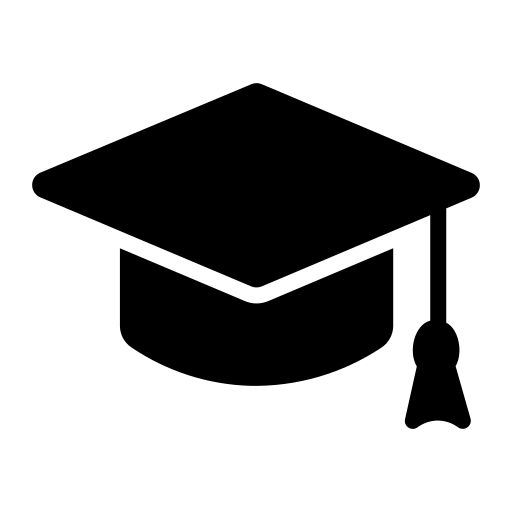
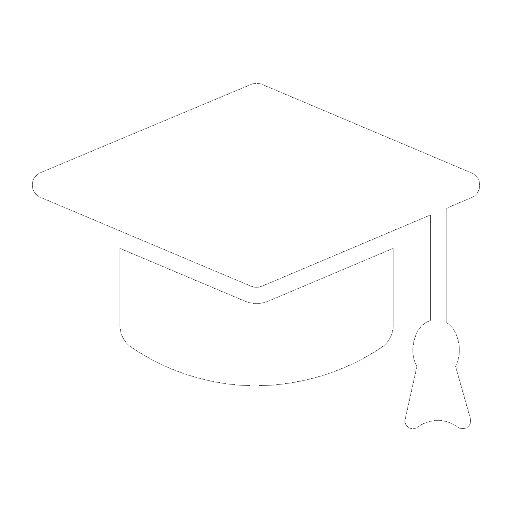
main

diff --git a/estilo/main.css b/estilo/main.css
@@ -8,6 +8,19 @@
     background-color: antiquewhite;
 }
 
-.pessoal{
+.personal{
+    text-align: center;
+    margin-top: 10px;
+    padding: 20px;
     background-color: white;
+    width: 100%;
+    grid-column: 2 / 3;
+}
+.personal > *{
+    margin: 10px 0px;
+}
+#bruno{
+    width: 150px;
+    border-radius: 50%;
+    border: 3px solid var(--azul-header);
 }

diff --git a/estilo/index.css b/estilo/index.css
@@ -3,6 +3,7 @@
     margin: 0px;
     box-sizing: border-box;
     transition: all ease 0.5s;
+    font-family: Verdana, Geneva, Tahoma, sans-serif;
 }
 
 :root{
@@ -29,5 +30,17 @@
 
 .cabecalho > img:hover{
     background-color: var(--azul-letra);
+    opacity: 0.5;
     border-radius: 2px;
+}
+
+h2{
+    color: var(--azul-header);
+    text-align: start;
+}
+
+p{
+    text-align: start;
+    font-family: Arial, Helvetica, sans-serif;
+    font-size: 12px;
 }

diff --git a/index.html b/index.html
@@ -18,7 +18,9 @@
     </header>
     <main class="principal">
         <section class="personal">
-
+            <img src="imagens/image.png" alt="foto do desenvolvedor desse site" id="bruno">
+            <h2>Bruno dos Santos</h2>
+            <p>Estudante de análise e desenvolvimento de sistemas. Apaixonado por tecnologia e entusiasta na programação front-end, experiência em projetos privados na construção de apis utilizando javascript, node, mongoDB, react e express. Sempre buscando a excelência e a melhoria constante</p>
         </section>
     </main>
 </body>